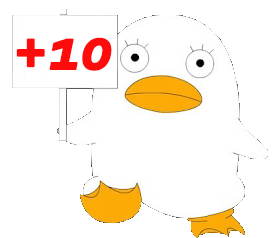
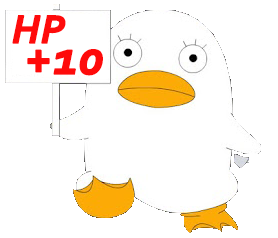
add commit of gameover and change plus 10 picture

diff --git a/src/GameOver.java b/src/GameOver.java
@@ -14,34 +14,40 @@ public class GameOver extends JFrame{
 		public GameOver(int x ,int y,SubmarineMain game ){
 			this.game = game;
 			this.setSize(x, y);
-			this.setContentPane(new JLabel(new ImageIcon(".\\image\\seabg.jpg")));			JLabel gameover = new JLabel();
-			JLabel health = new JLabel();
-			JLabel word = new JLabel();
+			this.setContentPane(new JLabel(new ImageIcon(".\\image\\seabg.jpg")));
+			//gameover圖片
+			JLabel gameover = new JLabel();
 			ImageIcon icon = new ImageIcon(".\\image\\game over.png");
-			ImageIcon icon2 = new ImageIcon(".\\image\\YES.png");
-			ImageIcon icon3 = new ImageIcon(".\\image\\NO.png");
-			ImageIcon icon4 = new ImageIcon(".\\image\\0.png");
-			ImageIcon icon5 = new ImageIcon(".\\image\\again.png");
-
 			gameover.setIcon(icon);
 			gameover.setSize(547,245);
 			gameover.setLocation(x/2-250,y/2-300);
+			//增加0血條
+			JLabel health = new JLabel();
+			ImageIcon icon4 = new ImageIcon(".\\image\\0.png");
 			health.setIcon(icon4);
 			health.setLocation(0,0);
 			health.setSize(400, 22);
+			//增加again文字
+			JLabel word = new JLabel();
+			ImageIcon icon5 = new ImageIcon(".\\image\\again.png");
 			word.setIcon(icon5);
 			word.setLocation(x/2-270,y/2+20);
 			word.setSize(547, 80);
+			//增加重啟按鈕
+			ImageIcon icon2 = new ImageIcon(".\\image\\YES.png");
 			JButton restart = new JButton(icon2);
-			JButton exitbtn = new JButton(icon3);
 			Restart_listener mblistener = new Restart_listener(this);
 			restart.addActionListener(mblistener);
 			restart.setLocation(x/2-300,y/2+150);
 			restart.setSize(234,58);
+			//增加離開按鈕
+			ImageIcon icon3 = new ImageIcon(".\\image\\NO.png");
+			JButton exitbtn = new JButton(icon3);
 			ExitListener exitlistener = new ExitListener(this);
 			exitbtn.addActionListener(exitlistener);
 			exitbtn.setLocation(x/2+54,y/2+150);
 			exitbtn.setSize(234,58);
+			//將按鈕新增至frame
 			this.add(exitbtn);
 			this.add(restart);
 			this.add(gameover);

diff --git a/src/SubmarineMain.java b/src/SubmarineMain.java
@@ -148,7 +148,7 @@ public class SubmarineMain extends JFrame implements MouseMotionListener {
 		ImageIcon icon = new ImageIcon(".\\image\\+10.png");
 		JLabel picture = new JLabel();
 		picture.setIcon(icon);
-		picture.setLocation(WIDTH/2-150,HEIGHT/2-100);
+		picture.setLocation(WIDTH/2-150,HEIGHT/2-30);
 		picture.setSize(278,238);
 		if(healthBar.getHealth() < 100){
 			this.add(picture);
